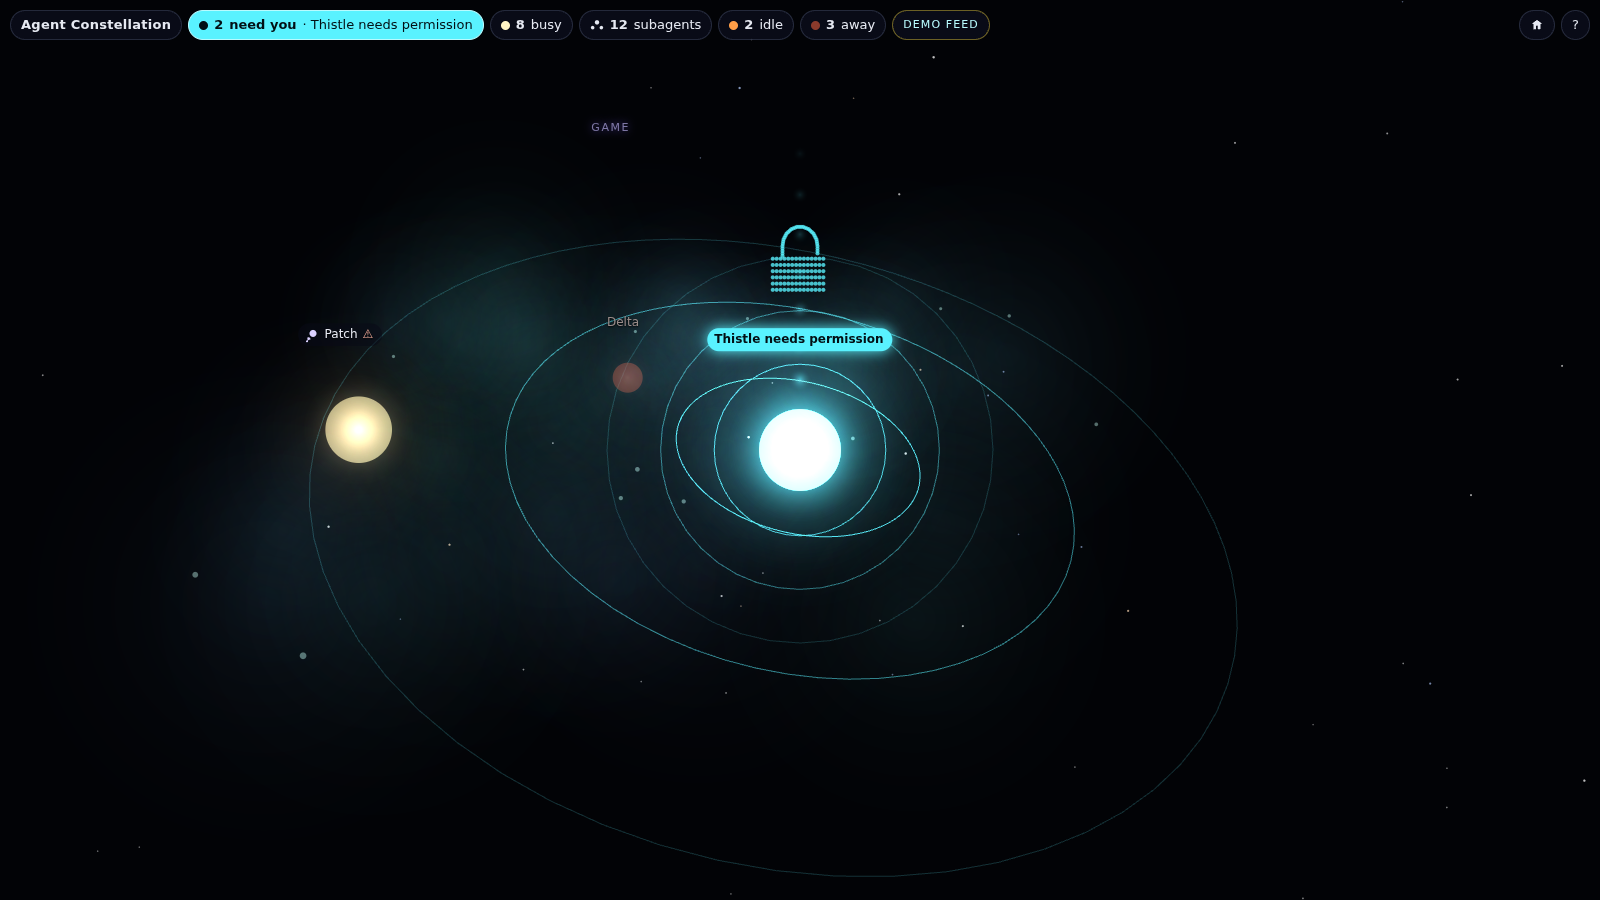
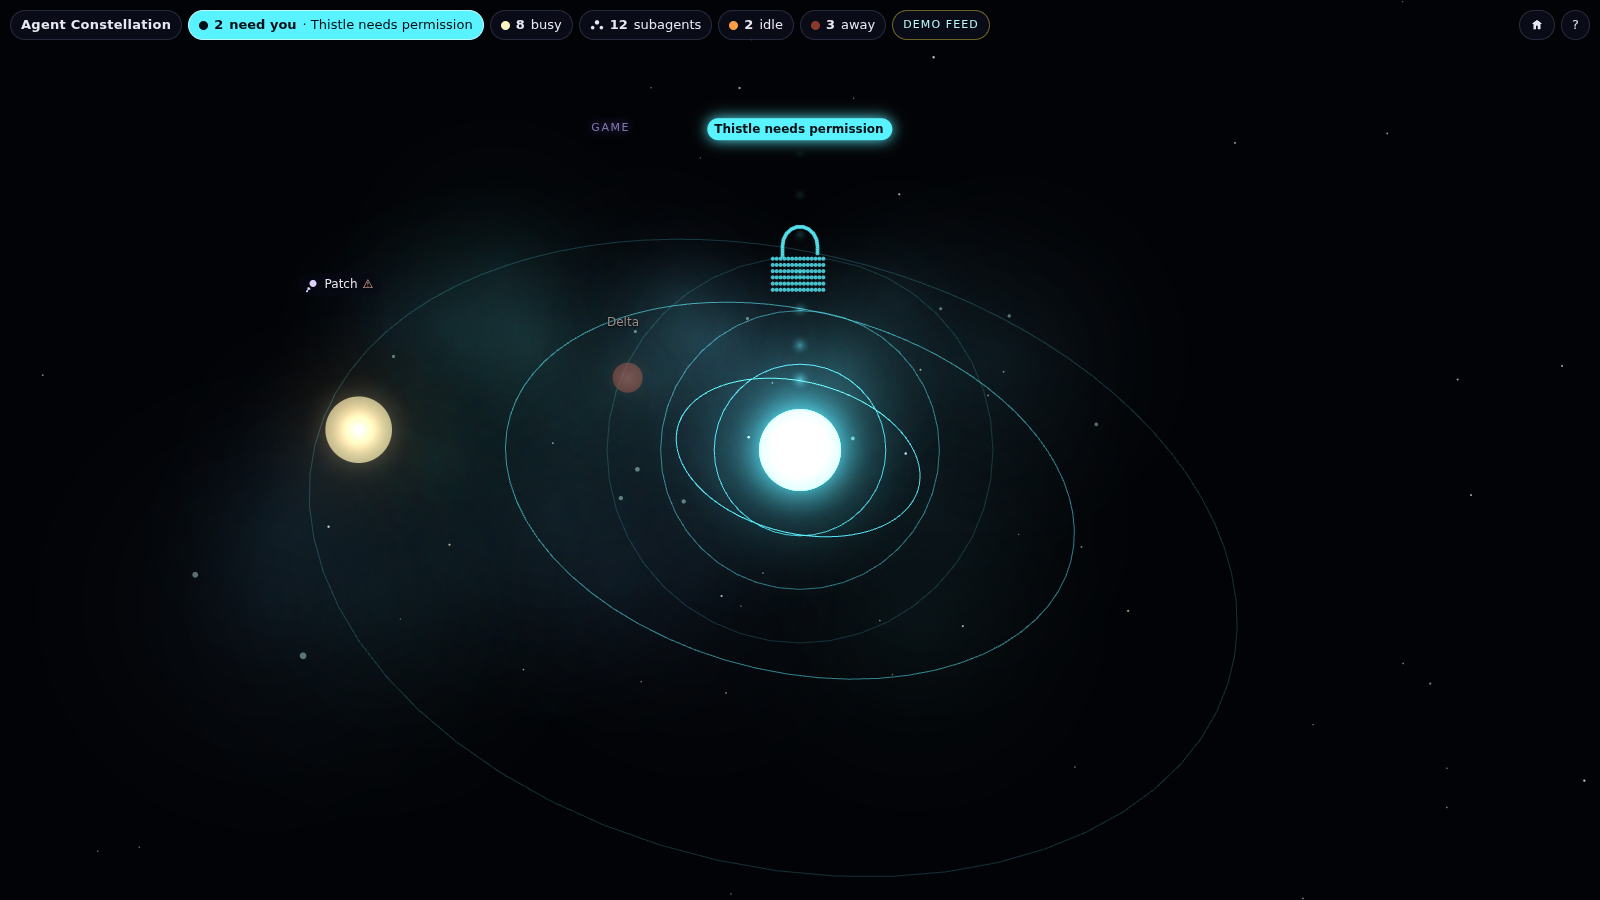
Polish: one-row phone bar, clear-band sheet, waiting framing, stalled labels
Claude-Session: https://claude.ai/code/session_01LYNeukFY6qMGdbKQJnTwr8

Changed region(s): [[0.4375, 0.0933, 0.5625, 0.1867], [0.4375, 0.3422, 0.5625, 0.4044], [0.1875, 0.3111, 0.2188, 0.3422]]

diff --git a/web/page.js b/web/page.js
@@ -4,6 +4,10 @@
 (function () {
   "use strict";
   const DEFAULT_YAW = 0.6, DEFAULT_PITCH = 0.62;
+  // On a portrait screen the map is framed from higher up, so its depth
+  // spreads over the tall screen instead of a thin band across the middle.
+  const PORTRAIT_PITCH = 1.05;
+  const PHONE = window.matchMedia("(max-width: 640px)");
   const REASON = {question: "has a question", permission: "needs permission"};
   const canvas = document.getElementById("view");
   const map = new window.Constellation();
@@ -17,20 +21,24 @@
   function fitView() {
     const e = map.extent();
     const aspect = canvas.clientWidth / Math.max(1, canvas.clientHeight);
-    return {yaw: DEFAULT_YAW, pitch: DEFAULT_PITCH, dist: e.r * 2.5 / Math.min(aspect, 1.78),
+    const pitch = aspect < 1 ? PORTRAIT_PITCH : DEFAULT_PITCH;
+    return {yaw: DEFAULT_YAW, pitch, dist: e.r * 2.5 / Math.min(aspect, 1.78),
       tx: e.c[0], ty: 0, tz: e.c[2]};
   }
   function fit(instant) {
     if (!map.places.size) return;
     const view = fitView();
     if (instant || kit.driven) { flight = null; Object.assign(kit.cam, view); return; }
-    flight = {target: () => [view.tx, view.ty, view.tz], dist: view.dist};
+    flight = {target: () => [view.tx, view.ty, view.tz], dist: view.dist, pitch: view.pitch};
   }
-  // Fly to a star or planet and keep easing after it until it is reached.
+  // Fly to a star or planet and keep easing after it until it is reached. A
+  // waiting star is framed a little above its centre and from further out, so
+  // its beacon rings and the "?" or padlock over it stay in view.
   function focusOn(thing) {
-    const isStar = !thing.star;
-    flight = {target: () => [thing.x, thing.y, thing.z],
-      dist: isStar ? Math.max(14, thing.systemR * 3.2) : 9};
+    const isStar = !thing.star, waiting = isStar && thing.session.state === "waiting";
+    const lift = waiting ? thing.r * 1.3 + 1.2 : 0;
+    flight = {target: () => [thing.x, thing.y + lift, thing.z],
+      dist: isStar ? Math.max(waiting ? 20 : 14, thing.systemR * 3.2) : 9};
   }
   function stepCamera(dt) {
     if (!flight) return;
@@ -39,7 +47,9 @@
     cam.ty = AgentvizFeed.ease(cam.ty, to[1], dt, rate);
     cam.tz = AgentvizFeed.ease(cam.tz, to[2], dt, rate);
     cam.dist = AgentvizFeed.ease(cam.dist, flight.dist, dt, rate);
-    const near = Math.hypot(cam.tx - to[0], cam.ty - to[1], cam.tz - to[2]) < 0.05 && Math.abs(cam.dist - flight.dist) < 0.1;
+    if (flight.pitch != null) cam.pitch = AgentvizFeed.ease(cam.pitch, flight.pitch, dt, rate);
+    const near = Math.hypot(cam.tx - to[0], cam.ty - to[1], cam.tz - to[2]) < 0.05 && Math.abs(cam.dist - flight.dist) < 0.1 &&
+      (flight.pitch == null || Math.abs(cam.pitch - flight.pitch) < 0.01);
     if (near) flight = null;
   }
 
@@ -51,17 +61,24 @@
     const el = labels.set("s:" + star.id, {cls, action: s.state === "busy" ? s.action : null,
       text: waiting ? name + " " + (REASON[s.waitingReason] || "needs you") : name});
     el.style.opacity = String(star.appear);
-    const rank = star.id === selectedId ? 0 : waiting ? 1 : s.state === "offline" ? 4 : 2;
-    return {el, q: kit.project(star.x, star.y + star.r * 2.2 + 0.4, star.z), rank};
+    // Who needs you, then who is stuck, then everyone else: a stalled star's
+    // warning sign wins over a busy neighbour's name.
+    const rank = star.id === selectedId ? 0 : waiting || s.stalled ? 1 : s.state === "offline" ? 4 : 2;
+    // A waiting star's label sits over its "?" or padlock (scene/star.h draws
+    // it at r * 2.6 + 2.4 above the centre, 2.2 tall), not across it.
+    const lift = waiting ? star.r * 2.6 + 4.8 : star.r * 2.2 + 0.4;
+    // A stalled star may stack its label over a waiting neighbour's instead of hiding.
+    return {el, q: kit.project(star.x, star.y + lift, star.z), rank, tries: s.stalled && rank > 0 ? 4 : undefined};
   }
-  // Planet labels show round the selected system, and always for a stalled subagent.
+  // Planet labels show round the selected system, and always for a stalled
+  // subagent. They sit over the selection ring (planet.h: size * 2.2 + 0.2).
   function planetLabel(planet) {
     const f = planet.follower, selected = map.find(selectedId);
     const near = selected && (selected === planet || selected === planet.star || selected.star === planet.star);
     if (!near && !f.stalled) return null;
     const el = labels.set("f:" + planet.id, {cls: "planet" + (f.stalled ? " stalled" : ""),
       action: f.state === "active" ? f.action : "none", text: f.label || f.id});
-    return {el, q: kit.project(planet.x, planet.y + planet.size + 0.3, planet.z), rank: planet.id === selectedId ? 0 : 3};
+    return {el, q: kit.project(planet.x, planet.y + planet.size * 2.2 + 0.4, planet.z), rank: planet.id === selectedId ? 0 : 3};
   }
   function placeLabels() {
     const items = [];
@@ -104,6 +121,7 @@
     if (kit) kit.selected = thing || null;
     // On a phone the map shrinks to the space above the bottom sheet.
     document.body.classList.toggle("sheet", !!thing);
+    fitClearBand();
     if (thing && how !== "api") focusOn(thing);
   }
 
@@ -114,6 +132,19 @@
     onSelect,
     rows: ({session, follower}) => (follower ? [] : [["tool calls", session.toolCount != null ? session.toolCount : "—"]]),
   });
+
+  // The bottom sheet's height follows its content, so the map's clear band
+  // (CSS --cv-clear, the canvas height while the sheet is up) follows the
+  // sheet's top. offsetTop ignores the slide-in transform: it is where the
+  // sheet will rest.
+  let clearBand = null;
+  function fitClearBand() {
+    const band = PHONE.matches && hud.selected ? Math.max(120, hud.panel.offsetTop) + "px" : null;
+    if (band === clearBand) return;
+    clearBand = band;
+    if (band) document.body.style.setProperty("--cv-clear", band);
+    else document.body.style.removeProperty("--cv-clear");
+  }
 
   function accept(doc) {
     map.update(doc);
@@ -150,7 +181,7 @@
       camera: {yaw: DEFAULT_YAW, pitch: DEFAULT_PITCH, dist: 80, tx: 0, ty: 0, tz: 0},
       limits: {minDist: 3, maxDist: 400, minPitch: -1.3, maxPitch: 1.5},
       frame,
-      after: () => { if (feed && feed.doc) placeLabels(); },
+      after: () => { fitClearBand(); if (feed && feed.doc) placeLabels(); },
       pick,
       idOf: (thing) => thing.id,
       onTap: (thing) => hud.select(targetOf(thing), "tap"),

diff --git a/web/index.html b/web/index.html
@@ -18,10 +18,12 @@
   #view { position: fixed; inset: 0; width: 100%; height: 100%; display: block; touch-action: none; outline: none; }
   #labels { position: fixed; inset: 0; pointer-events: none; overflow: hidden; }
 
-  /* The kit's chip pulse is orange; ours is the beacon's cyan. The waiting dot
-     stays cyan too, while the demo badge keeps the kit's pale note colour. */
+  /* The kit's chip pulse is orange; ours follows the --av-wait token (the
+     beacon's cyan). The waiting dot stays cyan too, while the demo badge keeps
+     the kit's pale note colour. */
   .av-wait { animation-name: cv-throb; }
-  @keyframes cv-throb { 0%, 100% { box-shadow: 0 0 0 0 rgba(89, 242, 255, 0.7); } 50% { box-shadow: 0 0 0 7px rgba(89, 242, 255, 0); } }
+  @keyframes cv-throb { 0%, 100% { box-shadow: 0 0 0 0 color-mix(in srgb, var(--av-wait) 70%, transparent); }
+    50% { box-shadow: 0 0 0 7px color-mix(in srgb, var(--av-wait) 0%, transparent); } }
   .av-s-waiting { background: var(--av-wait); box-shadow: 0 0 6px var(--av-wait); }
   .av-wait .av-s-waiting, .av-needs .av-s-waiting { background: var(--av-wait-fg); box-shadow: none; }
   .av-badge { letter-spacing: 0.1em; text-transform: uppercase; font-size: 11px; }
@@ -45,10 +47,19 @@
   .sw { width: 14px; height: 14px; border-radius: 50%; flex: none; box-shadow: 0 0 6px currentColor; }
 
   @media (max-width: 640px) {
-    /* With the sheet up, the map shrinks to the space above it, so the
-       selected star stays in view instead of under the sheet. */
-    body.sheet #view { height: 50%; }
+    /* One row of chips on a phone: the title and the idle / away counts give
+       way, so "need you", busy and subagents stay with the buttons. */
+    .av-bar .av-title, .av-bar .av-chip[title="idle"], .av-bar .av-chip[title="away"] { display: none; }
+    .av-bar { gap: 4px; }
+    .av-bar .av-chip { padding-left: 7px; padding-right: 7px; }
+    .av-bar .av-badge { padding: 4px 5px; letter-spacing: 0; font-size: 9px; }
+    /* With the sheet up, the map shrinks to the space above it (page.js sets
+       --cv-clear to the sheet's top), so the selected star sits in the clear
+       band instead of under the sheet. */
+    body.sheet #view { height: var(--cv-clear, 50%); }
   }
+  /* The smallest phones (320 px) drop the demo-feed badge to stay on one row. */
+  @media (max-width: 359px) { .av-bar .av-badge { display: none; } }
 </style>
 </head>
 <body>

diff --git a/scene/star.h b/scene/star.h
@@ -104,6 +104,7 @@ inline void drawBeacon(Host& h, const Star& s, float t, float beat) {
         const float u = i / 8.0f;
         glow(h, s.c + V3{0, r + u * 7.0f, 0}, 0.6f * (1.0f - u * 0.5f), kWaitColour, (1.0f - u) * 0.5f * a, 2.0f);
     }
+    // page.js lifts a waiting star's label above this glyph (r * 2.6 + 4.8): keep in step.
     const V3 above = s.c + V3{0, r * 2.6f + 2.4f, 0};
     const float size = 2.2f, alpha = (0.75f + 0.25f * beat) * a;
     if (s.a->waitingReason == agentviz::WaitingReason::Question) drawQuestion(h, above, f, size, alpha);

diff --git a/README.md b/README.md
@@ -16,8 +16,9 @@ ten views of the same feed.
 *The whole map (demo feed). Otto (right) is a lead with seven subagent
 planets; Wren, the other lead, shares `site-one` with Juniper (top, its label
 gives way to Juniper's). Juniper and Thistle need the owner: cyan labels that
-say why, and the top chip, which names the next one and cycles through them.
-Marisol and Otter read and surf in `docs`; Anvil, Scout and Pebble share
+say why, over the "?" or padlock, and the top chip, which names the next one
+and cycles through them. Patch, beside Thistle in `game`, is stalled: its
+warning sign stacks above Thistle's label rather than hiding. Marisol and Otter read and surf in `docs`; Anvil, Scout and Pebble share
 `engine`; Lantern and Sparky sit in the home nebula; Fern, alone in
 `old-site`, is an offline ember.*
 
@@ -43,8 +44,11 @@ stats), `?quality=0|1|2`.
 
 Drag to orbit, right-drag or two fingers to pan, wheel or pinch to zoom. Tap
 a star or a planet: the camera flies to it and its card opens (a bottom sheet
-on a phone, with the map shrunk to the space above it; swipe it down or tap
-the cross to close). The cyan **need you** chip names who is waiting and why,
+on a phone, with the map shrunk to the clear space between the top bar and the
+sheet's top; swipe it down or tap the cross to close). A waiting star is framed
+from a little further out, so its beacon rings and its "?" or padlock stay in
+view. On a phone the top bar keeps to one row: the title and the idle and away
+counts give way. The cyan **need you** chip names who is waiting and why,
 flies to them and cycles through them; the house button frames the whole map;
 **?** opens the legend. If the feed stops answering, a banner says so and the
 last snapshot stays; with no sessions at all, a hint says how to start.
@@ -149,8 +153,9 @@ says so, with its tool, tool calls and a chip back to Otto.*
 <img src="docs/media/phone-map.png" width="260" alt="Phone portrait: the whole map, small">
 </p>
 
-*On a phone (390 x 844, DPR 3): the bottom sheet for Otto, with the map shrunk
-to the space above it; and the whole map, which is wider than it is deep.*
+*On a phone (390 x 844, DPR 3): the top bar on one row, and the bottom sheet
+for Otto with the map shrunk to the space above it; and the whole map, framed
+from higher up on a portrait screen so it spreads down the screen.*
 
 ![The whole map from straight above](docs/media/angle-top.png)
 *From above: the places on a golden-angle spiral, each session's system inside
@@ -203,8 +208,8 @@ lights (`sky.h`, `star.h`, `planet.h`, `actions.h`).
 
 - Places get a slot the first time they appear and keep it for the page's
   life; a long-lived page with many places that come and go leaves holes.
-- On a phone the whole map is small: it is wider than it is deep. Tap a star
-  to fly in.
+- On a phone the whole map is still small, since its width sets the zoom.
+  Tap a star to fly in.
 - Ideas: a time-lapse of the last hour, comet trails for subagents that just
   finished, constellation lines between sessions on the same branch.
 
